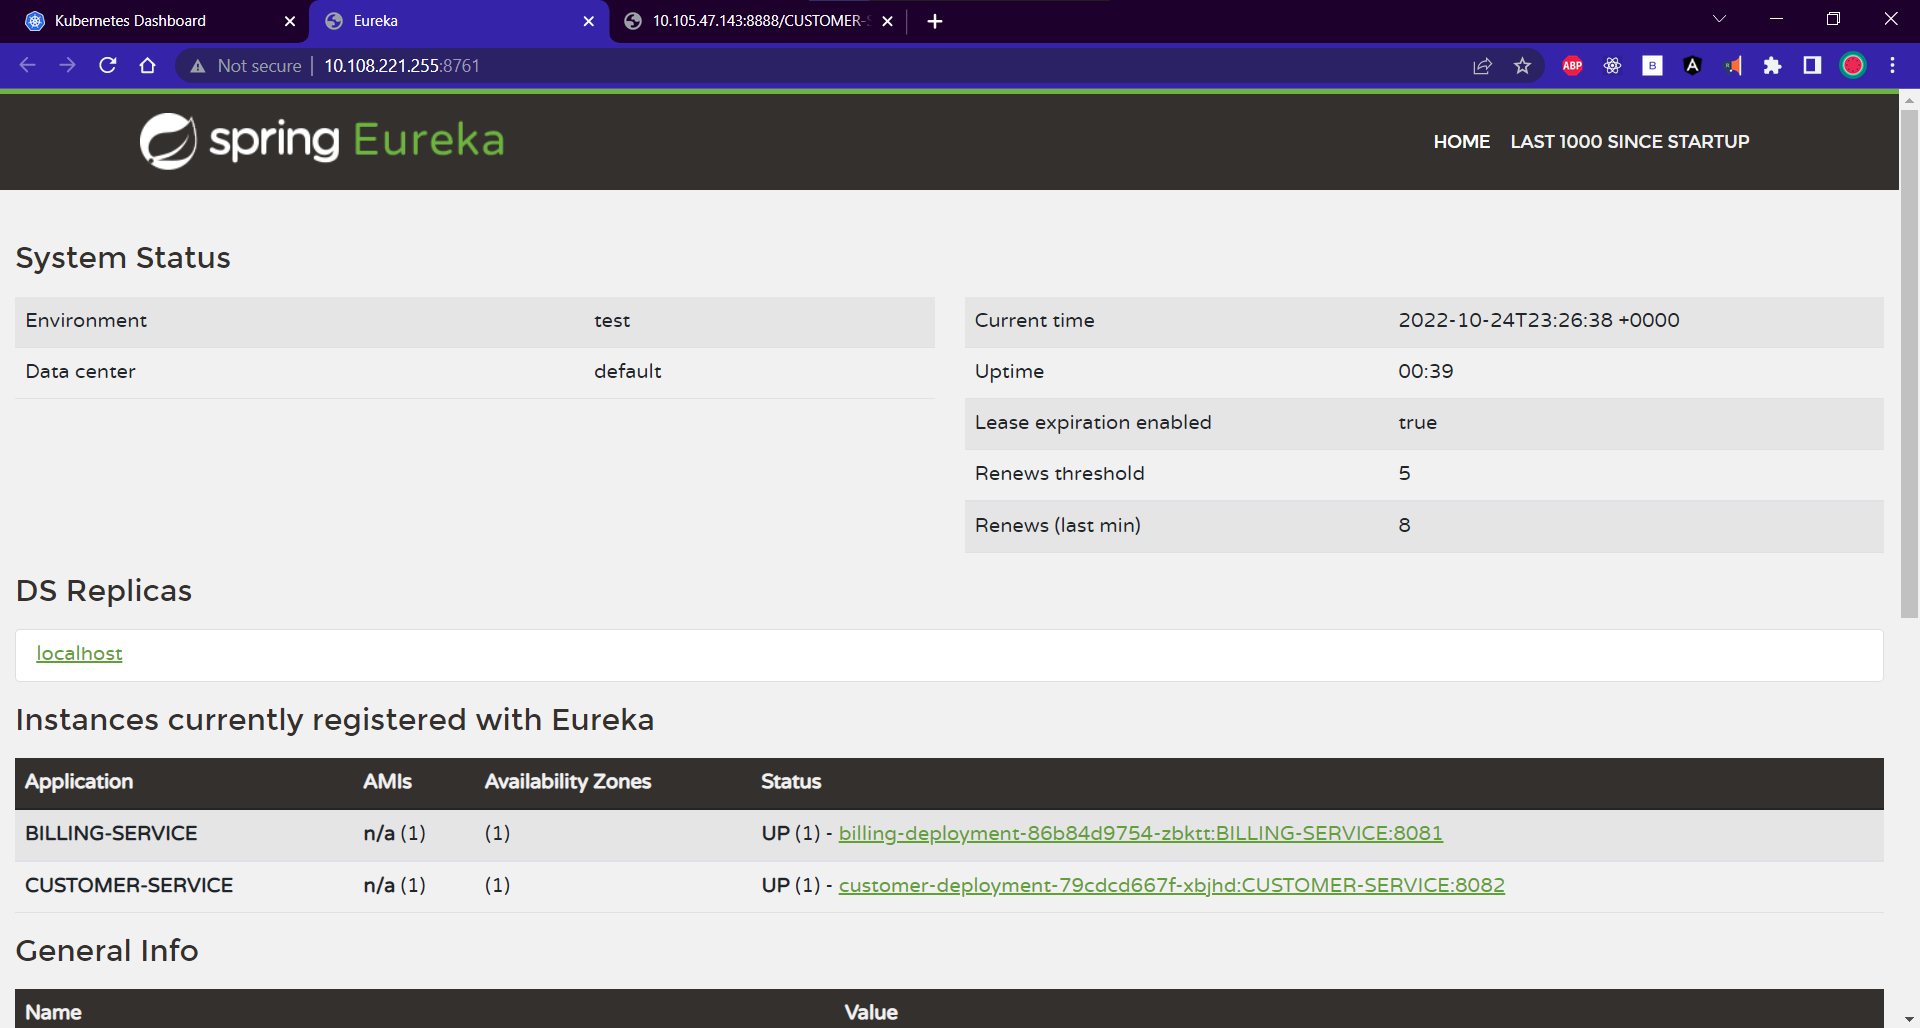
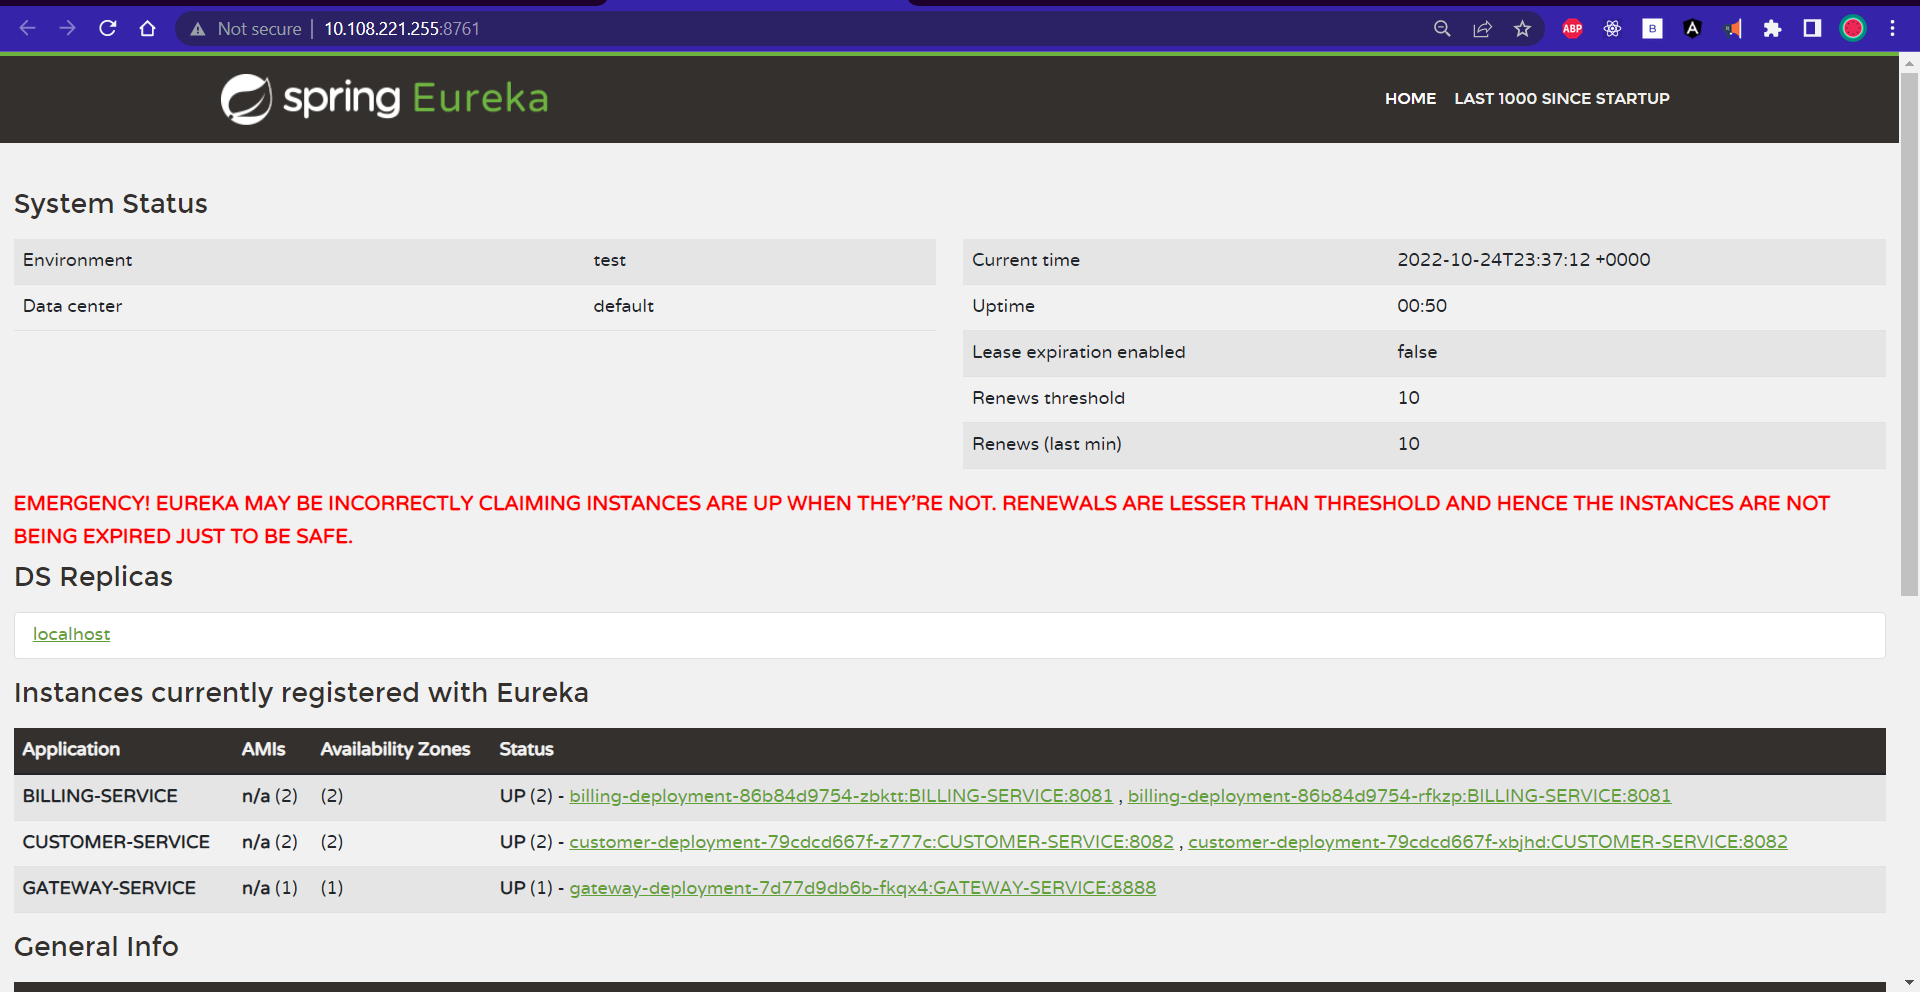
UPDATED README

diff --git a/README.md b/README.md
@@ -58,13 +58,24 @@ The [Docker-compose.yaml](./Docker-compose.yaml) is configured properly to run a
 
 > if you're working with minikube you may need to pull images locally first example `minikube image pull scoma/spring-ms-tp1_billing-service:v2` 
 
-> after staring the k8s cluster you'll need to apply these config files in order : 
+> after staring the k8s cluster i applied these config files in order to create  : 
 ```
 $ kubectl apply -f .\k8s-eureka.yaml
 $ kubectl apply -f .\k8s-customer.yaml
 $ kubectl apply -f .\k8s-billing.yaml
 $ kubectl apply -f .\k8s-gateway.yaml
+
+#   => to create 
+# {
+#  1: eureka pod
+#  1: gateway pod
+#  2: customer pods
+#  2: billing pods
+# }
 ```
+<p align="center">
+    <img src="./images/7.png">
+</p>
 
 > I've set `customer` and `billing` pods on an internal network so that access can be done only through the `gateway`
 
